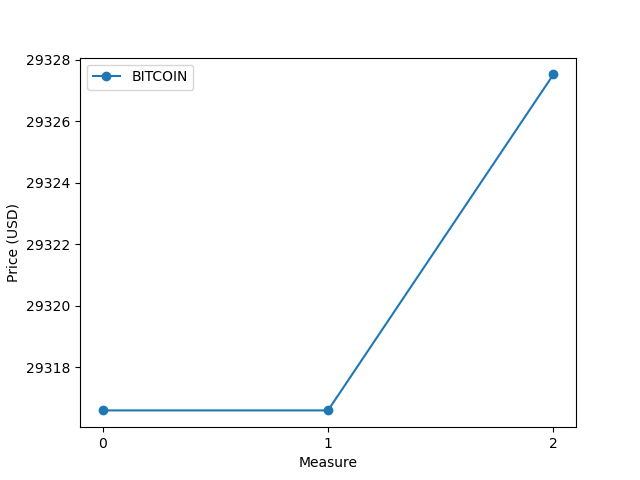
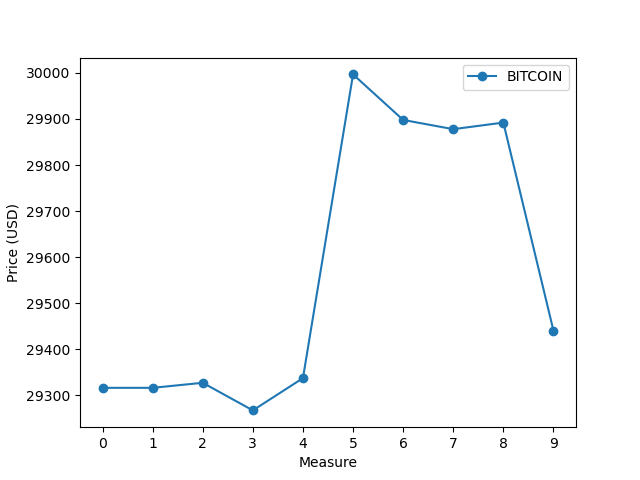
Added complete project

diff --git a/app.py b/app.py
@@ -1,17 +1,92 @@
-from flask import Flask
+from flask import Flask, render_template, abort, request
+from database import load_db, save_db, add_row, plot_crypto
+import requests
 
 app = Flask(__name__)
+db = load_db("crypto_data.csv")
+
+
+# Addition: This variable counts the number of
+# visits of the 'data' page
+counter = 0
 
 @app.route("/")
 def index():
-    return "Hello, world!"
+    return render_template("index.html", columns=db.columns)
 
-# data (/data )
-# about us
+
 @app.route("/data")
 def data():
-    return "Something"
+    """
+    Addition: data now counts the number of visits of the
+    webpage (aka the number of times the page is accessed).
+    To do this we need to define a variable counter outside
+    the function and then update it inside the function by
+    adding 1 each time the function is called (each time the
+    page is visited).
+    Because we cannot put counter in the function arguments nor
+    in the return statement, we must explicitly tell Python that
+    the counter variable updated inside the function is the one
+    defined outside it (in the so-called global scope). For this
+    reason we use the 'global' keyword.
+    """
 
+    global counter
+    counter += 1
+
+    return render_template('data.html', counter=counter)
+
+# Addition: about_us.html (which inherits from html)
 @app.route("/about_us")
 def about_us():
-    return "Website under construction"
+    return render_template('about_us.html')
+
+#/crypto/0 -> BITCOIN
+#/crypto/1 -> DOGECOIN
+#/crypto/2 -> ETHEREUM
+@app.route("/crypto/<int:index>", methods=["GET", "POST"])
+def crypto(index):
+    if index >= len(db.columns):
+        abort(404)
+    
+    if request.method == "POST":
+        results = requests.get(
+            'https://api.binance.com/api/v3/ticker/price?symbols=["ETHUSDT","DOGEUSDT","BTCUSDT"]')
+        results = results.json()
+
+        # Target: {"BITCOIN": 1, "DOGECOIN": 2, "ETHEREUM": 3}
+        
+        unformatted_row = {
+            result["symbol"]: result["price"]
+            for result in results
+        }
+        
+        # Now we have: {"BTCUSDT": "1", "DOGEUSDT": "2", "ETHUSDT": "3"}
+        column_map = {
+            "BTCUSDT": "BITCOIN",
+            "DOGEUSDT": "DOGECOIN",
+            "ETHUSDT": "ETHEREUM"
+        }
+        new_row = {
+            column_map[key]: float(value)
+            for key, value in unformatted_row.items()
+        }
+        add_row(db, new_row)
+        save_db(db, "crypto_data.csv")
+        plot_crypto(db)
+
+    name = db.columns[index]
+    price = db[name].iloc[-1]
+    plot_name = f"{name}_plot.png"
+
+    # Addition: return the maximum index
+    # (the number of columns -1).
+    # See the template for detail
+    return render_template(
+        "crypto.html",
+        name=name,
+        value=price,
+        plot_name=plot_name,
+        index=index,
+        max_index=len(db.columns) - 1
+    )
